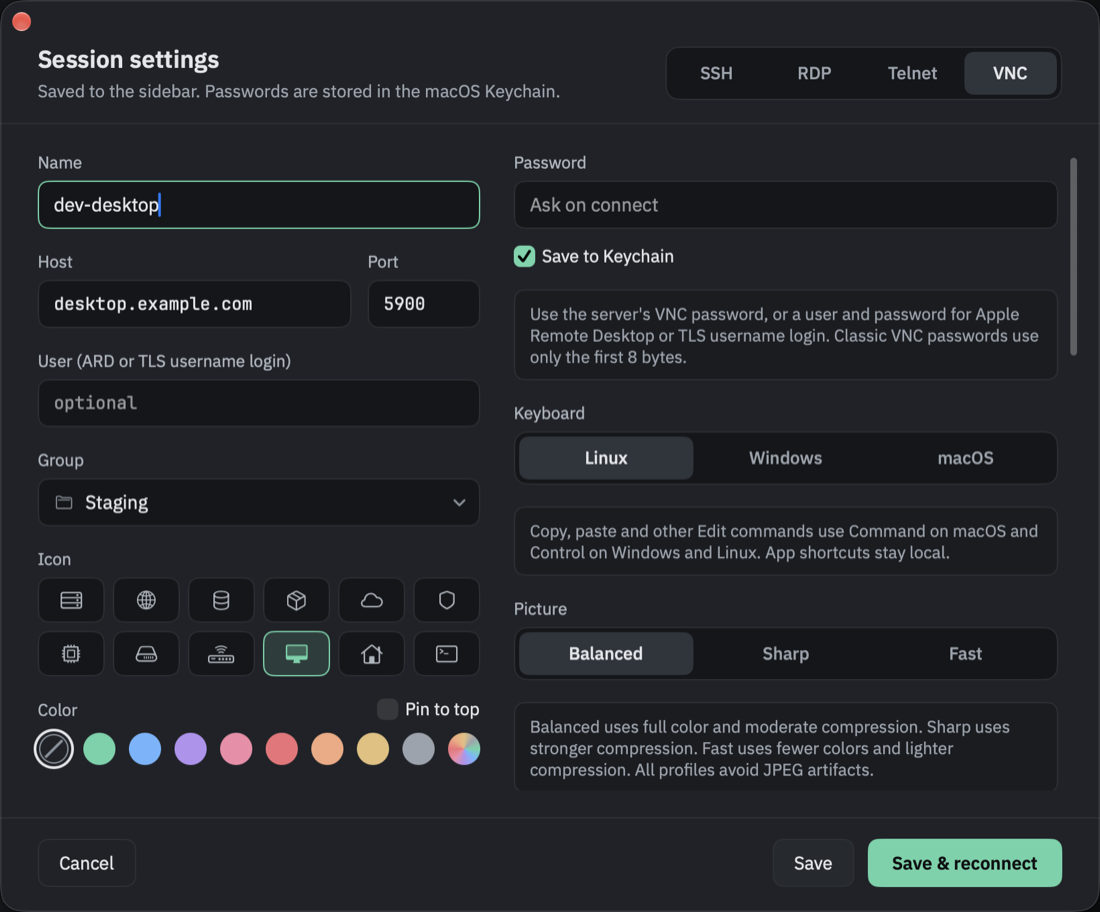
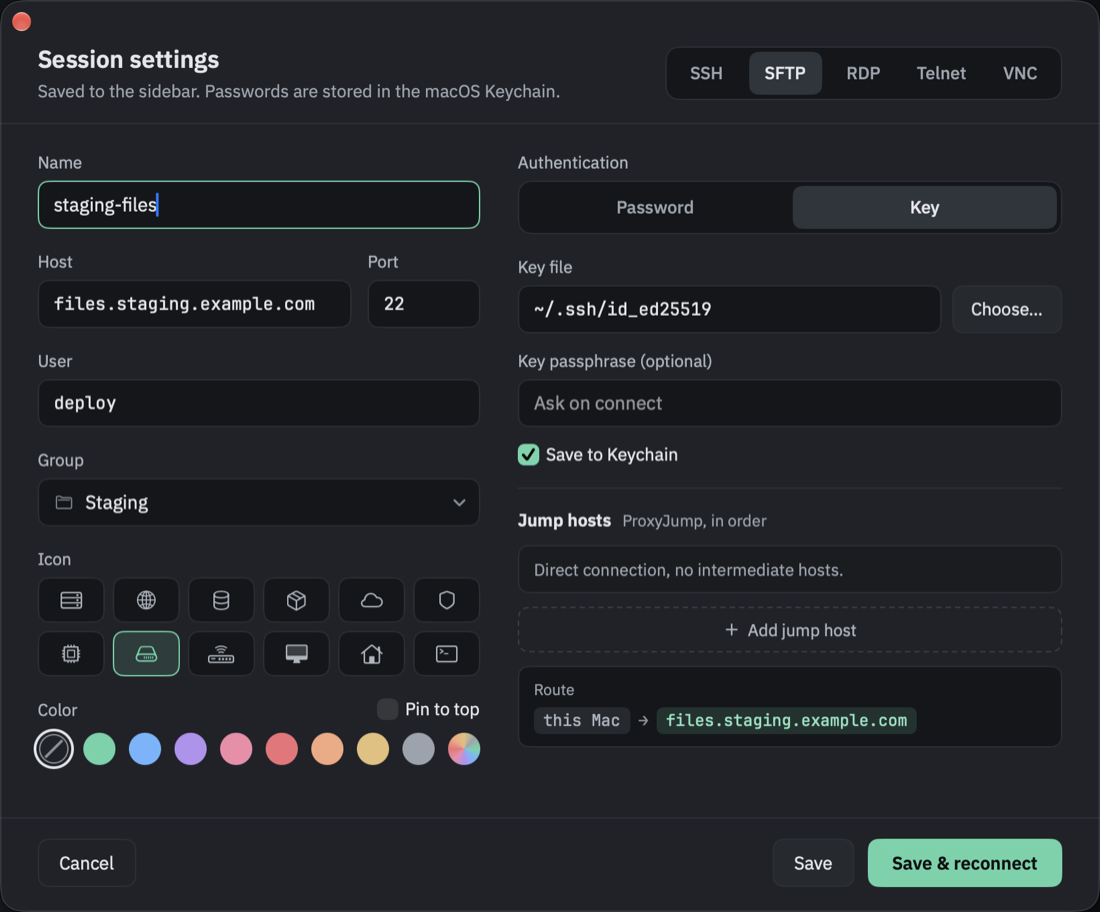
Prepare Termstead 0.10.0 with SFTP screenshots

diff --git a/README.md b/README.md
@@ -5,7 +5,7 @@
 <h1 align="center">Termstead</h1>
 
 <p align="center">
-  <a href="https://github.com/pkhorenyan/termstead/releases/latest"><img src="https://img.shields.io/badge/version-0.9.1-2F6FB5" alt="Version 0.9.1"></a>
+  <a href="https://github.com/pkhorenyan/termstead/releases/latest"><img src="https://img.shields.io/badge/version-0.10.0-2F6FB5" alt="Version 0.10.0"></a>
   <img src="https://img.shields.io/badge/macOS-14%2B-2F6FB5?logo=apple&logoColor=white" alt="macOS 14 or later">
   <a href="https://developer.apple.com/documentation/security/notarizing-macos-software-before-distribution"><img src="https://img.shields.io/badge/Apple-Notarized-3DA639?logo=apple&logoColor=white" alt="Notarized by Apple"></a>
   <img src="https://img.shields.io/badge/universal-Apple%20Silicon%20%2B%20Intel-2F6FB5" alt="Universal: Apple Silicon and Intel">
@@ -15,7 +15,7 @@
 </p>
 
 <p align="center">
-  A native macOS SSH, RDP, VNC and Telnet client for people who keep a lot of servers
+  A native macOS SSH, SFTP, RDP, VNC and Telnet client for people who keep a lot of servers
   in their head — sessions in a tree, jump hosts, SFTP next to the terminal,
   remote desktops in tabs, your Mac's own shell beside them, and passwords in
   the macOS Keychain. Built for anyone coming
@@ -105,6 +105,11 @@
   network of the Linux server in front, read over the connection already open.
 - **Passwords and key passphrases in the Keychain**, entered for you when ssh
   asks — and only for the host they were saved for.
+- **Standalone SFTP sessions.** Choose SFTP when setting up a session. Your
+  Mac's files open on the left and the server's files open in the connected
+  tab. Drag files and folders between the panels to copy them. The transfer
+  queue shows progress, supports cancellation and retry, and stays visible
+  if the connection drops.
 - **SFTP beside the terminal and VNC desktop.** The SFTP tab reuses an SSH
   terminal's connection. A VNC tab opens its configured SSH file connection in
   the background, with separate credentials. When enabled, the sidebar opens on
@@ -136,9 +141,10 @@
 
 ![A remote desktop in a tab, reached through a jump host, next to ssh sessions](docs/images/rdp.png)
 
+![Standalone SFTP with Mac files on the left and server files in the connected tab](docs/images/sftp.png)
+
 <p align="center">
-  <img src="docs/images/sftp.png" alt="The SFTP tab next to a session" width="56%">
-  <img src="docs/images/session-settings.png" alt="VNC session settings with connection, keyboard and picture controls" width="42%">
+  <img src="docs/images/session-settings.png" alt="Session settings with SFTP selected and key authentication configured" width="76%">
 </p>
 
 ## Install

diff --git a/CHANGELOG.md b/CHANGELOG.md
@@ -7,6 +7,8 @@ the project follows [Semantic Versioning](https://semver.org/spec/v2.0.0.html).
 
 ## [Unreleased]
 
+## [0.10.0] - 2026-11-23
+
 ### Added
 
 - Standalone SFTP sessions show the Mac's files on the left and the server's
